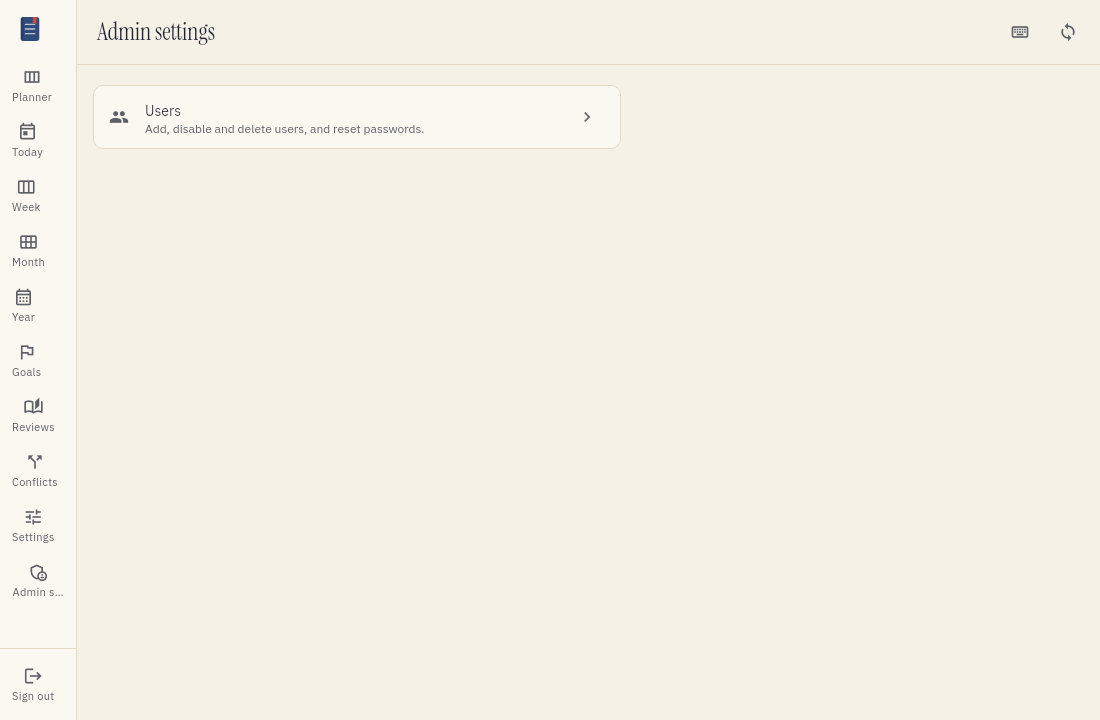
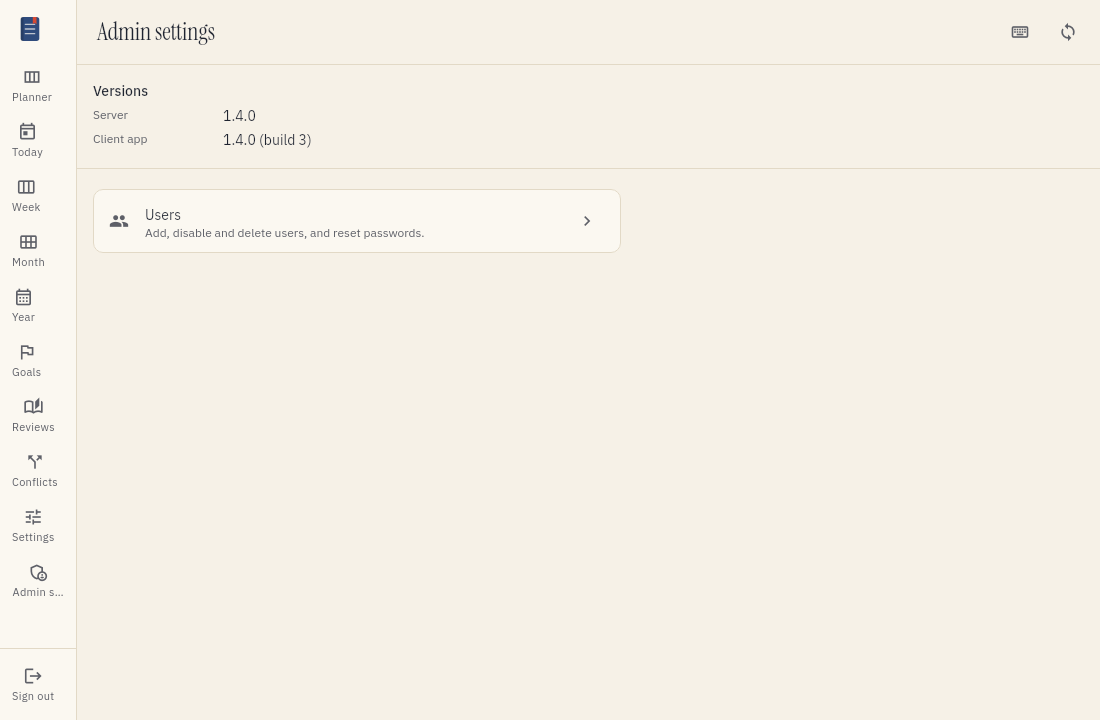
Show the server and client app versions
Admin settings shows the version that the server runs and the version of
the app in the window. The menu shows the client app version under the
Sign out button. The builds pass the version to the app with
--dart-define, so a web client that holds old code cannot show a newer
number from a file on the server. The planner route accepts ?date=, and
the selection test uses it, because it failed on every day outside the
week of its test data.

Changed region(s): [[0.0927, 0.1222, 0.3091, 0.2139], [0.0927, 0.275, 0.3709, 0.3361], [0.3091, 0.1528, 0.3709, 0.1833]]

diff --git a/frontend/lib/features/admin/admin_settings_screen.dart b/frontend/lib/features/admin/admin_settings_screen.dart
@@ -2,29 +2,97 @@
 library;
 
 import 'package:flutter/material.dart';
+import 'package:flutter_riverpod/flutter_riverpod.dart';
 
+import '../../core/server_address.dart';
 import '../../core/settings_list.dart';
 import '../../core/shell.dart';
+import '../../core/versions.dart';
+import '../../theme/theme.dart';
 
-/// Lists the pages that only an administrator can use. The server checks the
-/// rights too; the router only hides this page from other users.
-class AdminSettingsScreen extends StatelessWidget {
+/// Lists the pages that only an administrator can use, and the versions that
+/// run. The server checks the rights too; the router only hides this page
+/// from other users.
+class AdminSettingsScreen extends ConsumerWidget {
   /// Creates the screen.
   const AdminSettingsScreen({super.key});
 
   @override
-  Widget build(BuildContext context) {
-    return const AppShell(
+  Widget build(BuildContext context, WidgetRef ref) {
+    final server =
+        ref.watch(serverVersionProvider(ref.watch(serverAddressProvider)));
+    final app = ref.watch(appVersionProvider);
+    return AppShell(
       title: 'Admin settings',
-      body: SettingsList(entries: [
-        SettingsEntry(
-          keyName: 'users',
-          icon: Icons.group,
-          title: 'Users',
-          subtitle: 'Add, disable and delete users, and reset passwords.',
-          path: '/admin/users',
-        ),
-      ]),
+      body: Column(
+        crossAxisAlignment: CrossAxisAlignment.stretch,
+        children: [
+          _VersionsPanel(
+            server: server.when(
+              data: (v) => v,
+              loading: () => 'Checking...',
+              error: (_, __) => 'Unknown (cannot reach the server)',
+            ),
+            client: app.when(
+              data: (v) => '$v',
+              loading: () => 'Checking...',
+              error: (_, __) => 'Unknown',
+            ),
+          ),
+          const Expanded(
+            child: SettingsList(entries: [
+              SettingsEntry(
+                keyName: 'users',
+                icon: Icons.group,
+                title: 'Users',
+                subtitle: 'Add, disable and delete users, and reset passwords.',
+                path: '/admin/users',
+              ),
+            ]),
+          ),
+        ],
+      ),
+    );
+  }
+}
+
+/// The version of the server and the version of the app in this window.
+class _VersionsPanel extends StatelessWidget {
+  const _VersionsPanel({required this.server, required this.client});
+
+  final String server;
+  final String client;
+
+  @override
+  Widget build(BuildContext context) {
+    final text = Theme.of(context).textTheme;
+    final colors = context.tefteri;
+    Widget row(String key, String label, String value) => Padding(
+          padding: const EdgeInsets.symmetric(vertical: 2),
+          child: Row(
+            crossAxisAlignment: CrossAxisAlignment.start,
+            children: [
+              SizedBox(width: 130, child: Text(label, style: text.bodySmall)),
+              Expanded(
+                  child: SelectableText(value,
+                      key: Key(key), style: text.bodyMedium)),
+            ],
+          ),
+        );
+    return Container(
+      key: const Key('admin-versions'),
+      padding: const EdgeInsets.all(Space.lg),
+      decoration:
+          BoxDecoration(border: Border(bottom: BorderSide(color: colors.rule))),
+      child: Column(
+        crossAxisAlignment: CrossAxisAlignment.start,
+        children: [
+          Text('Versions', style: text.titleSmall),
+          const SizedBox(height: Space.xs),
+          row('admin-server-version', 'Server', server),
+          row('admin-client-version', 'Client app', client),
+        ],
+      ),
     );
   }
 }

diff --git a/frontend/test/shell_test.dart b/frontend/test/shell_test.dart
@@ -3,6 +3,7 @@ import 'package:flutter_riverpod/flutter_riverpod.dart';
 import 'package:flutter_test/flutter_test.dart';
 import 'package:tefteri/core/auth_controller.dart';
 import 'package:tefteri/core/shell.dart';
+import 'package:tefteri/core/versions.dart';
 
 void main() {
   testWidgets('the header shows the sync button', (tester) async {
@@ -16,6 +17,7 @@ void main() {
   });
   adminMenuTests();
   railTests();
+  versionTests();
 }
 
 class _FakeAuth extends AuthController {
@@ -163,5 +165,58 @@ void railTests() {
     await _pumpWide(tester, railMinWidth - 1);
     expect(find.byTooltip('Open navigation menu'), findsOneWidget);
     expect(find.byKey(const Key('nav-/')), findsNothing);
+  });
+}
+
+void versionTests() {
+  Future<void> pump(WidgetTester tester, double width,
+      {bool known = true}) async {
+    tester.view.physicalSize = Size(width, 1200);
+    tester.view.devicePixelRatio = 1;
+    addTearDown(tester.view.reset);
+    await tester.pumpWidget(ProviderScope(
+      overrides: [
+        authControllerProvider.overrideWith((ref) => _FakeAuth(ref, false)),
+        appVersionProvider.overrideWith((_) async {
+          if (!known) throw StateError('unknown');
+          return const AppVersion('0.1.0', 14);
+        }),
+      ],
+      child: const MaterialApp(home: AppShell(title: 'T', body: SizedBox())),
+    ));
+    await tester.pumpAndSettle();
+  }
+
+  testWidgets('the labelled rail shows the version of the app under Sign out',
+      (tester) async {
+    await pump(tester, railExtendedMinWidth);
+    final label = find.byKey(const Key('nav-app-version'));
+    expect(label, findsOneWidget);
+    expect(tester.widget<Text>(label).data, 'Version 0.1.0 (build 14)');
+    // It sits below the Sign out button.
+    expect(
+        tester.getTopLeft(label).dy,
+        greaterThan(
+            tester.getBottomLeft(find.byKey(const Key('sign-out'))).dy));
+  });
+
+  testWidgets('the drawer shows the version too', (tester) async {
+    await pump(tester, 800);
+    await tester.tap(find.byTooltip('Open navigation menu'));
+    await tester.pumpAndSettle();
+    expect(find.byKey(const Key('nav-app-version')), findsOneWidget);
+  });
+
+  testWidgets('no version label while the version is unknown', (tester) async {
+    await pump(tester, railExtendedMinWidth, known: false);
+    expect(find.byKey(const Key('nav-app-version')), findsNothing);
+    expect(find.byKey(const Key('sign-out')), findsOneWidget);
+  });
+
+  test('a Flutter version splits into its name and build number', () {
+    final v = parseAppVersion('0.1.0+14');
+    expect((v.name, v.build), ('0.1.0', 14));
+    expect(parseAppVersion('1.2.3').build, 0);
+    expect(parseAppVersion('1.2.3+x').build, 0);
   });
 }

diff --git a/frontend/test/features/admin/admin_settings_screen_test.dart b/frontend/test/features/admin/admin_settings_screen_test.dart
@@ -1,0 +1,51 @@
+import 'package:flutter/material.dart';
+import 'package:flutter_riverpod/flutter_riverpod.dart';
+import 'package:flutter_test/flutter_test.dart';
+import 'package:tefteri/core/server_address.dart';
+import 'package:tefteri/core/versions.dart';
+import 'package:tefteri/features/admin/admin_settings_screen.dart';
+
+Future<void> _pump(WidgetTester tester,
+    {bool serverReachable = true, bool appKnown = true}) async {
+  tester.view.physicalSize = const Size(1000, 1200);
+  tester.view.devicePixelRatio = 1;
+  addTearDown(tester.view.reset);
+  await tester.pumpWidget(ProviderScope(
+    overrides: [
+      serverAddressProvider
+          .overrideWith((_) => ServerAddress('https://t.example')),
+      serverVersionProvider.overrideWith((ref, address) async {
+        if (!serverReachable) throw StateError('down');
+        return '0.1.0.befb2e7.post14';
+      }),
+      appVersionProvider.overrideWith((_) async {
+        if (!appKnown) throw StateError('unknown');
+        return const AppVersion('0.1.0', 14);
+      }),
+    ],
+    child: const MaterialApp(home: AdminSettingsScreen()),
+  ));
+  await tester.pumpAndSettle();
+}
+
+String _text(WidgetTester tester, String key) =>
+    tester.widget<SelectableText>(find.byKey(Key(key))).data!;
+
+void main() {
+  testWidgets('shows the version of the server and of the client app',
+      (tester) async {
+    await _pump(tester);
+    expect(find.byKey(const Key('admin-versions')), findsOneWidget);
+    expect(_text(tester, 'admin-server-version'), '0.1.0.befb2e7.post14');
+    expect(_text(tester, 'admin-client-version'), '0.1.0 (build 14)');
+    // The page still lists its entries.
+    expect(find.byKey(const Key('settings-users')), findsOneWidget);
+  });
+
+  testWidgets('says so when a version cannot be read', (tester) async {
+    await _pump(tester, serverReachable: false, appKnown: false);
+    expect(_text(tester, 'admin-server-version'),
+        'Unknown (cannot reach the server)');
+    expect(_text(tester, 'admin-client-version'), 'Unknown');
+  });
+}

diff --git a/frontend/lib/core/shell.dart b/frontend/lib/core/shell.dart
@@ -11,6 +11,7 @@ import '../theme/theme.dart';
 import 'auth_controller.dart';
 import 'shortcuts/app_shortcuts.dart';
 import 'shortcuts/keymap.dart';
+import 'versions.dart';
 
 /// Window width from which the navigation is a permanent rail on the left
 /// instead of a drawer behind a menu button.
@@ -268,7 +269,31 @@ class _NavPanel extends ConsumerWidget {
             },
           ),
         ),
+        if (extended) const _AppVersionLabel(),
       ],
+    );
+  }
+}
+
+/// The version of the client app, under the Sign out button. It shows
+/// nothing while the version is unknown.
+class _AppVersionLabel extends ConsumerWidget {
+  const _AppVersionLabel();
+
+  @override
+  Widget build(BuildContext context, WidgetRef ref) {
+    final version = ref.watch(appVersionProvider).valueOrNull;
+    if (version == null) return const SizedBox.shrink();
+    return Padding(
+      padding: const EdgeInsets.fromLTRB(_railIndent, 0, Space.md, Space.md),
+      child: Text(
+        'Version $version',
+        key: const Key('nav-app-version'),
+        style: Theme.of(context)
+            .textTheme
+            .labelSmall
+            ?.copyWith(color: Theme.of(context).colorScheme.onSurfaceVariant),
+      ),
     );
   }
 }

diff --git a/frontend/lib/core/versions.dart b/frontend/lib/core/versions.dart
@@ -24,8 +24,25 @@ class AppVersion {
   String toString() => '$name (build $build)';
 }
 
+/// The version that the build put into the program (`--dart-define`), for
+/// example `0.1.0+14`. Empty in a build that did not set it.
+///
+/// This is the version of the code that runs. A web client that reads the
+/// version from a file on the server could show a newer number than the old
+/// code that the browser still holds.
+const _builtVersion = String.fromEnvironment('TEFTERI_APP_VERSION');
+
+/// Splits a Flutter version such as `0.1.0+14` into its name and build number.
+AppVersion parseAppVersion(String version) {
+  final plus = version.indexOf('+');
+  if (plus < 0) return AppVersion(version, 0);
+  return AppVersion(version.substring(0, plus),
+      int.tryParse(version.substring(plus + 1)) ?? 0);
+}
+
 /// Reads the version of the running app. Tests override it.
 final appVersionProvider = FutureProvider<AppVersion>((ref) async {
+  if (_builtVersion.isNotEmpty) return parseAppVersion(_builtVersion);
   final info = await PackageInfo.fromPlatform();
   return AppVersion(info.version, int.tryParse(info.buildNumber) ?? 0);
 });

diff --git a/frontend/lib/app.dart b/frontend/lib/app.dart
@@ -81,7 +81,12 @@ GoRouter buildRouter(Ref ref) {
       // Old addresses, from before Settings and Admin settings existed.
       GoRoute(path: '/password', redirect: (_, __) => '/settings/password'),
       GoRoute(path: '/users', redirect: (_, __) => '/admin/users'),
-      GoRoute(path: '/', builder: (_, __) => const PlannerScreen()),
+      GoRoute(
+        path: '/',
+        builder: (_, s) => PlannerScreen(
+            initialDate:
+                DateTime.tryParse(s.uri.queryParameters['date'] ?? '')),
+      ),
       GoRoute(path: '/daily', builder: (_, __) => const DailyScreen()),
       GoRoute(path: '/calendar', redirect: (_, __) => '/'),
       GoRoute(

diff --git a/frontend/test/screenshots/accounts_test.dart b/frontend/test/screenshots/accounts_test.dart
@@ -60,7 +60,12 @@ void main() {
 
   testWidgets('admin settings page', (tester) async {
     await pumpScreen(tester, FakeApi({}), const AdminSettingsScreen(),
-        overrides: [authControllerProvider.overrideWith(_Admin.new)]);
+        overrides: [
+          authControllerProvider.overrideWith(_Admin.new),
+          appVersionProvider
+              .overrideWith((_) async => const AppVersion('1.4.0', 3)),
+          serverVersionProvider.overrideWith((ref, address) async => '1.4.0'),
+        ]);
     await saveScreenshot('admin-settings-page');
   });
 }

diff --git a/frontend/test/selection_test.dart b/frontend/test/selection_test.dart
@@ -17,6 +17,9 @@ class _SignedIn extends AuthController {
 }
 
 Future<void> _pumpApp(WidgetTester tester, FakeApi api) async {
+  // Open the planner on the week of the test data, whatever day it is today.
+  tester.platformDispatcher.defaultRouteNameTestValue = '/?date=2026-11-04';
+  addTearDown(tester.platformDispatcher.clearDefaultRouteNameTestValue);
   tester.view.physicalSize = const Size(1000, 2400);
   tester.view.devicePixelRatio = 1;
   addTearDown(tester.view.reset);

diff --git a/docs/user/accounts-and-sign-in.md b/docs/user/accounts-and-sign-in.md
@@ -61,9 +61,20 @@ Use the new password the next time you sign in.
 
 ![The Users screen. It lists three users. Each user has the buttons Disable or Enable, Reset password and Delete.](../images/accounts-users.png)
 
-![The Admin settings page. It lists one page: Users.](../images/admin-settings-page.png)
+![The Admin settings page. It shows the server version and the client app version, and it lists one page: Users.](../images/admin-settings-page.png)
 
 Only an administrator sees the Admin settings menu item. The Users screen is inside it. The first administrator comes from the deployment settings.
+
+## See which versions run
+
+Everyone can see the version of the client app. It is in the menu, under the Sign out button, for example `Version 0.1.0 (build 14)`.
+
+An administrator can see both versions at the top of the Admin settings page:
+
+- Server is the version that the server runs.
+- Client app is the version of the app in your window.
+
+The two versions help you find out if an update reached you. After you update the server, reload the page of the web client. If Client app still shows the old build, your browser still holds the old app: reload the page again without the cache (Ctrl+Shift+R).
 
 ### Add a user
 

diff --git a/docs/developer/releases.md b/docs/developer/releases.md
@@ -55,6 +55,11 @@ This form is not a valid Python version, so the packages use other forms of the 
 For a release, the image and Python forms are `X.Y.Z`. The Flutter form is `X.Y.Z+<number of
 commits>`, because Android needs a build number that is more than 0.
 
+The recipes `frontend::build-web`, `build-linux` and `build-apk` also pass this version to the app
+with `--dart-define=TEFTERI_APP_VERSION`. The app shows that version in the menu and in Admin
+settings. The web client does not read the version from a file on the server, because a browser
+that holds old code could then show a newer number than the code that runs.
+
 ## Signing the Android package
 
 The release and nightly workflows sign the `.apk` with a release keystore. Add these
